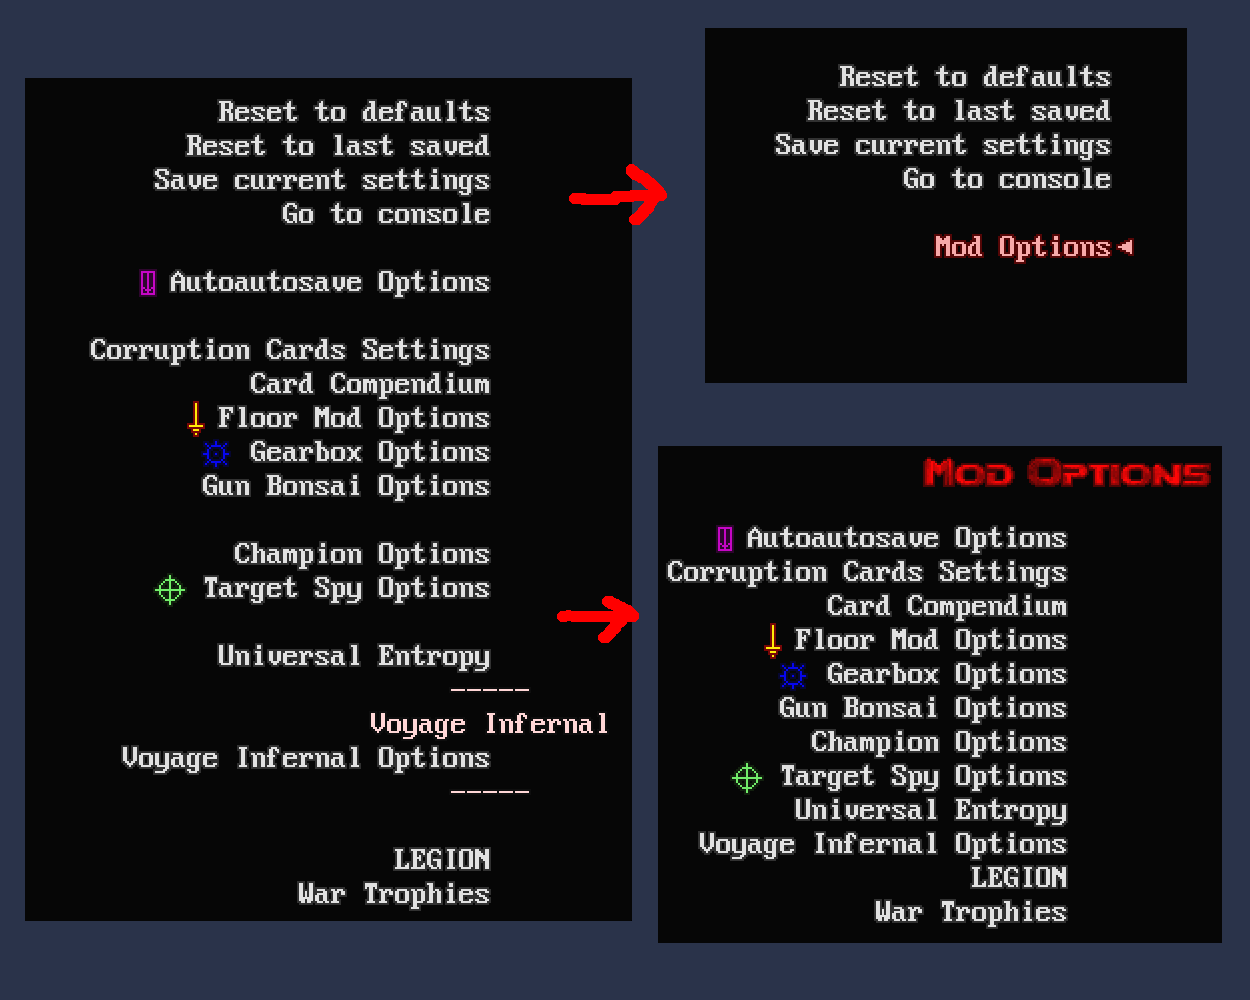
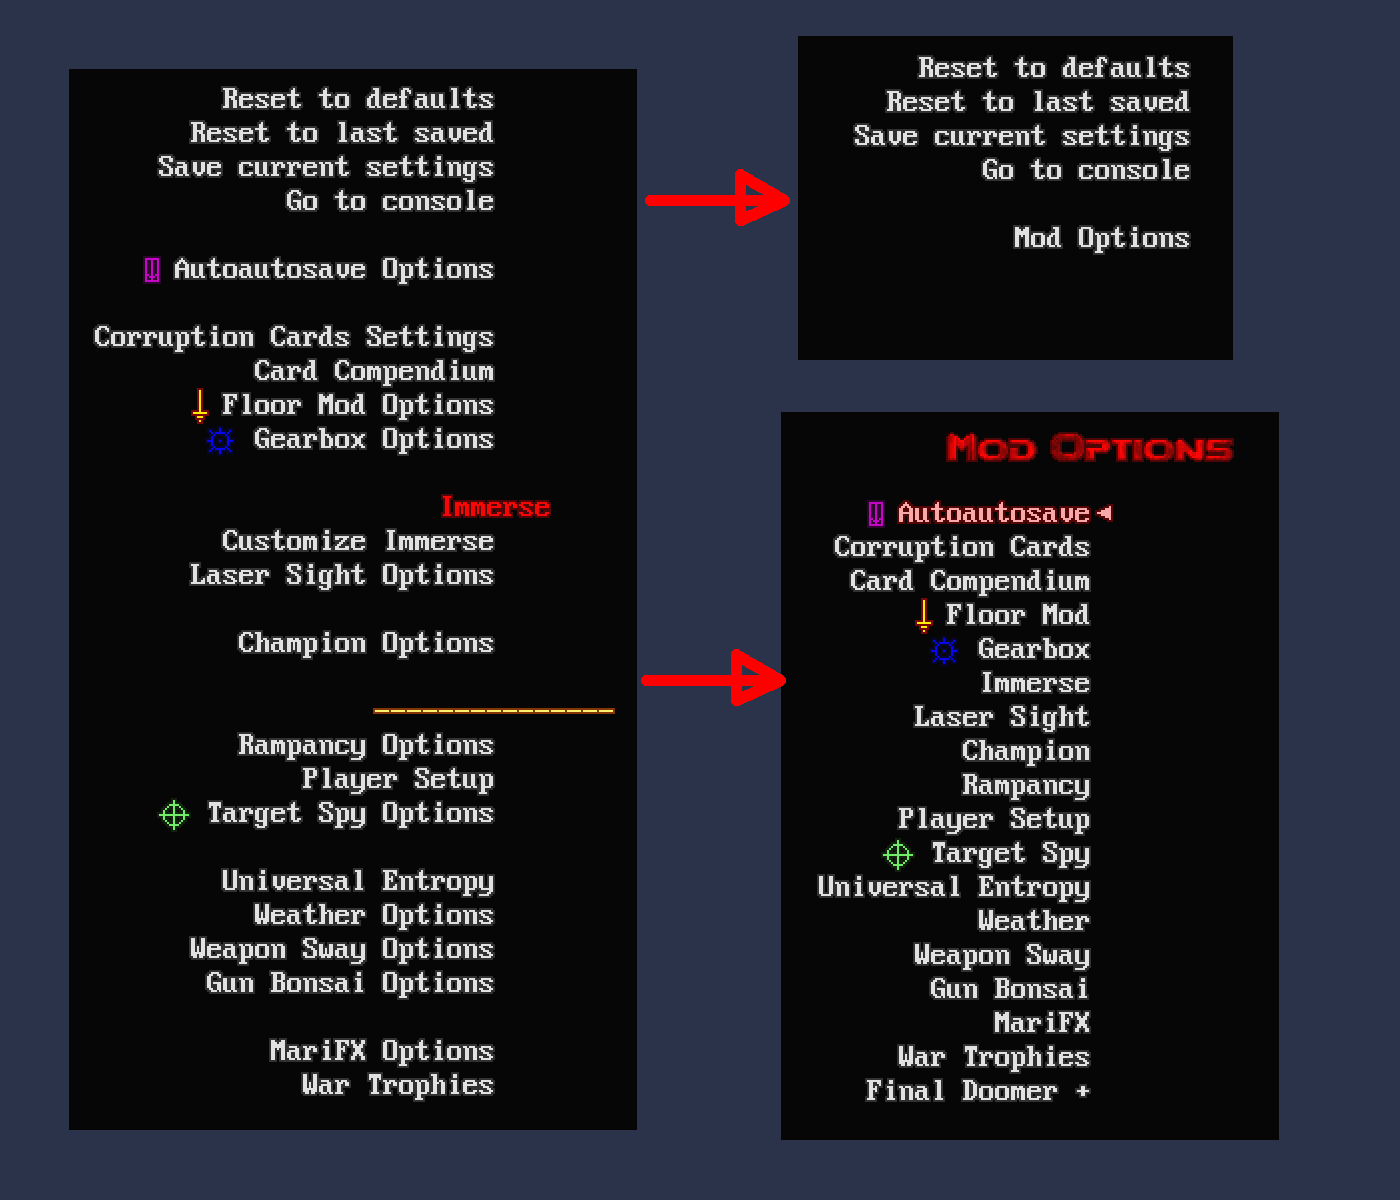
update the screenshot, add mod list

diff --git a/Readme.md b/Readme.md
@@ -24,6 +24,25 @@ of cluttering Options Menu.
 - Zandronum-style menus are detected by scanning Controls menu for anything
   with a command containing "open" and "menu".
 
+## Mods From the Screenshot
+
+[Autoautosave](https://forum.zdoom.org/viewtopic.php?t=59889),
+[Corruption Cards](https://forum.zdoom.org/viewtopic.php?f=43&t=67939),
+[Floor Mod](https://forum.zdoom.org/viewtopic.php?t=76193),
+[Gearbox](https://forum.zdoom.org/viewtopic.php?f=43&t=71086),
+[Immerse](https://forum.zdoom.org/viewtopic.php?f=43&t=61915),
+[Laser Sight](https://forum.zdoom.org/viewtopic.php?f=43&t=61079),
+[Champions](https://forum.zdoom.org/viewtopic.php?t=60456),
+[Rampancy](https://forum.zdoom.org/viewtopic.php?f=43&t=67193),
+[Target Spy](https://forum.zdoom.org/viewtopic.php?f=43&t=60784),
+[Universal Entropy](https://forum.zdoom.org/viewtopic.php?t=66778),
+[Universal Rain and Snow](https://forum.zdoom.org/viewtopic.php?t=70432),
+[Universal Weapon Sway](https://forum.zdoom.org/viewtopic.php?t=68255),
+[Gun Bonsai](https://forum.zdoom.org/viewtopic.php?f=43&t=76080),
+[MariFX Shader Suite](https://forum.zdoom.org/viewtopic.php?t=63394),
+[War Trophies](https://forum.zdoom.org/viewtopic.php?t=67054),
+[Final Doomer +](https://forum.zdoom.org/viewtopic.php?f=43&t=55061).
+
 ## Acknowledgments
 
 - Thanks to mamaluigisbagel for bug reports.
